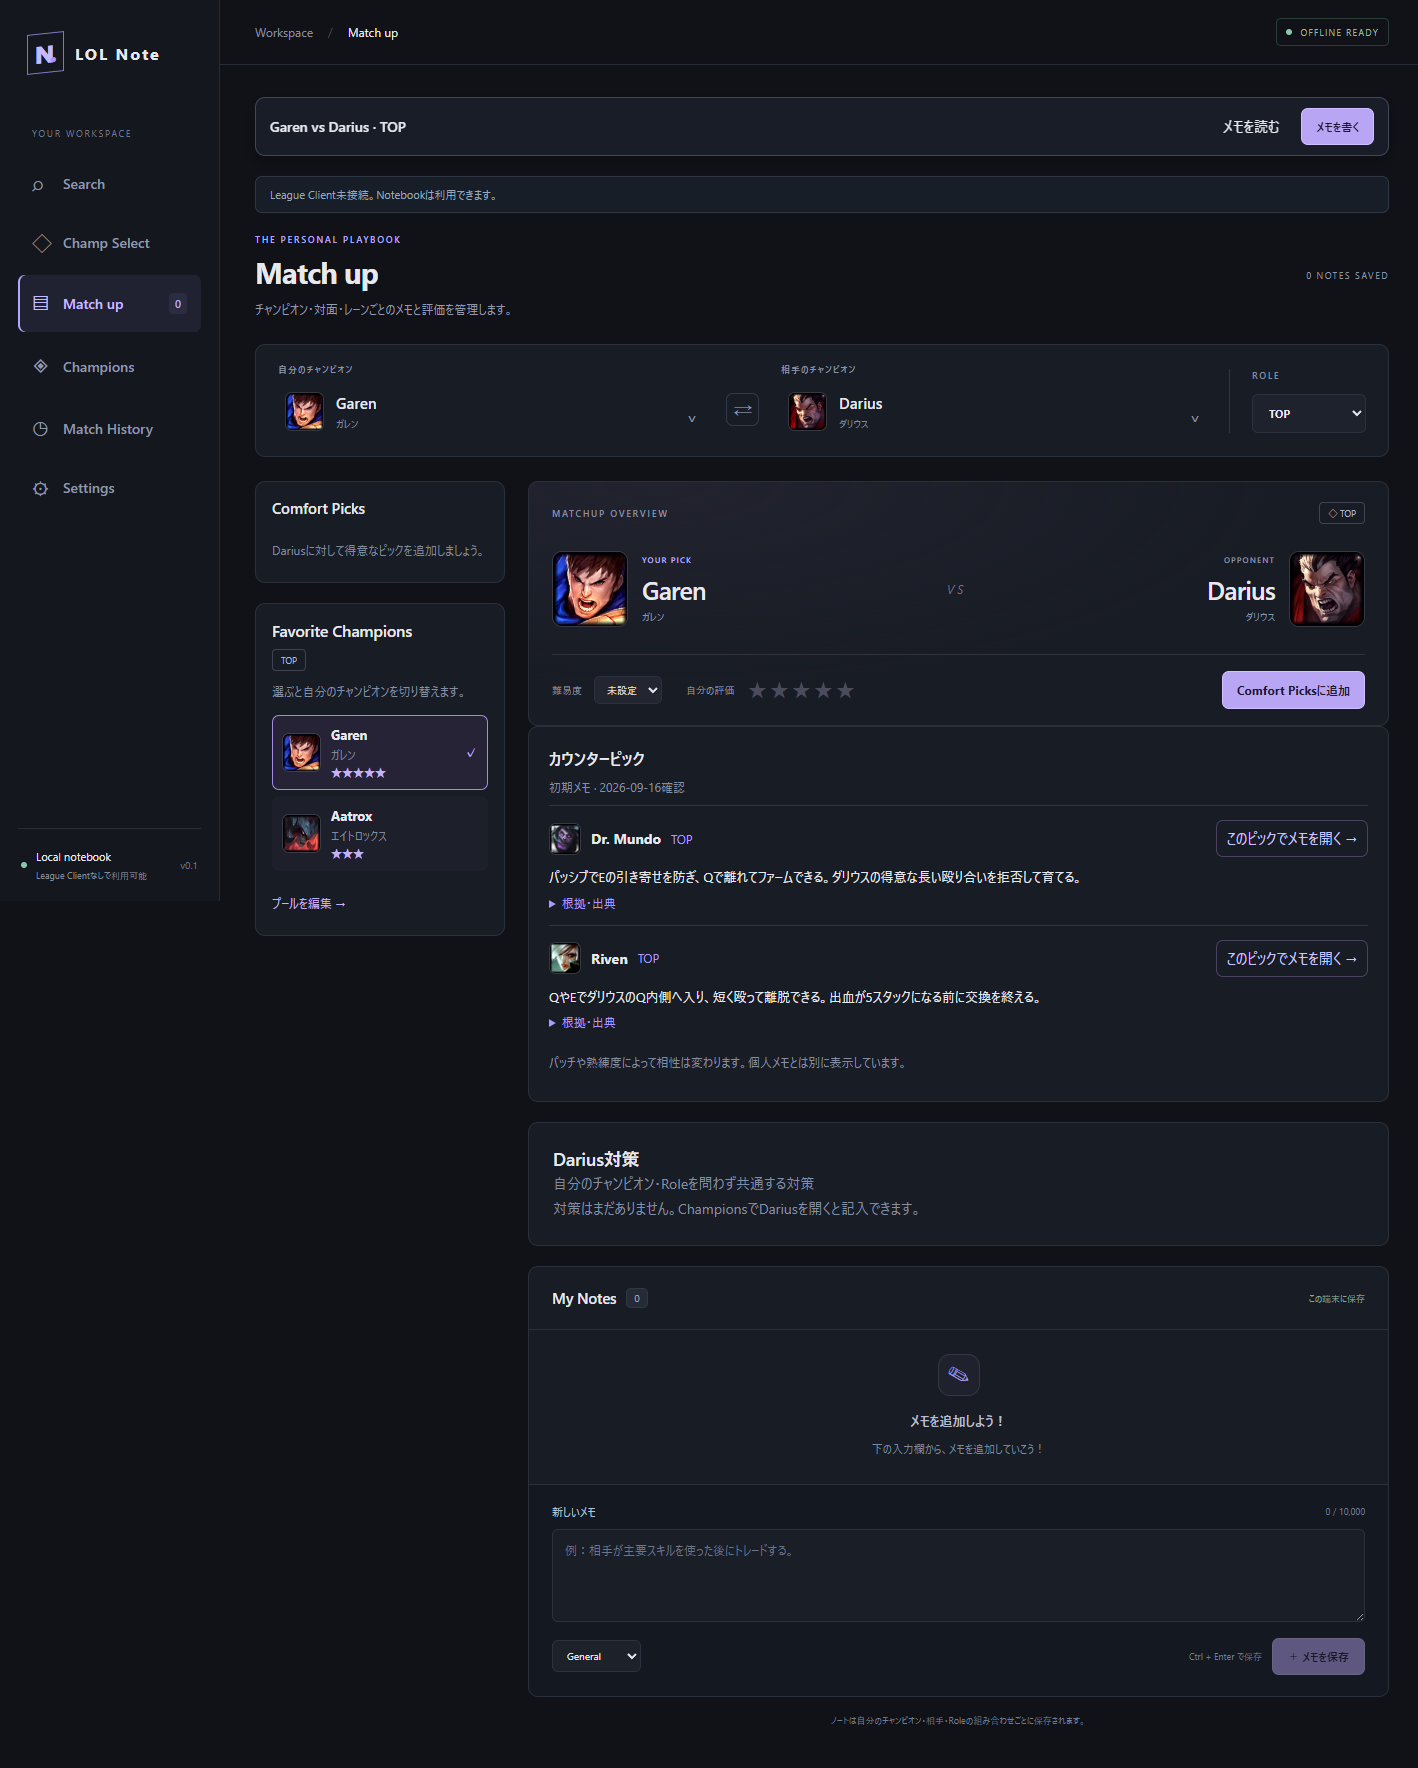
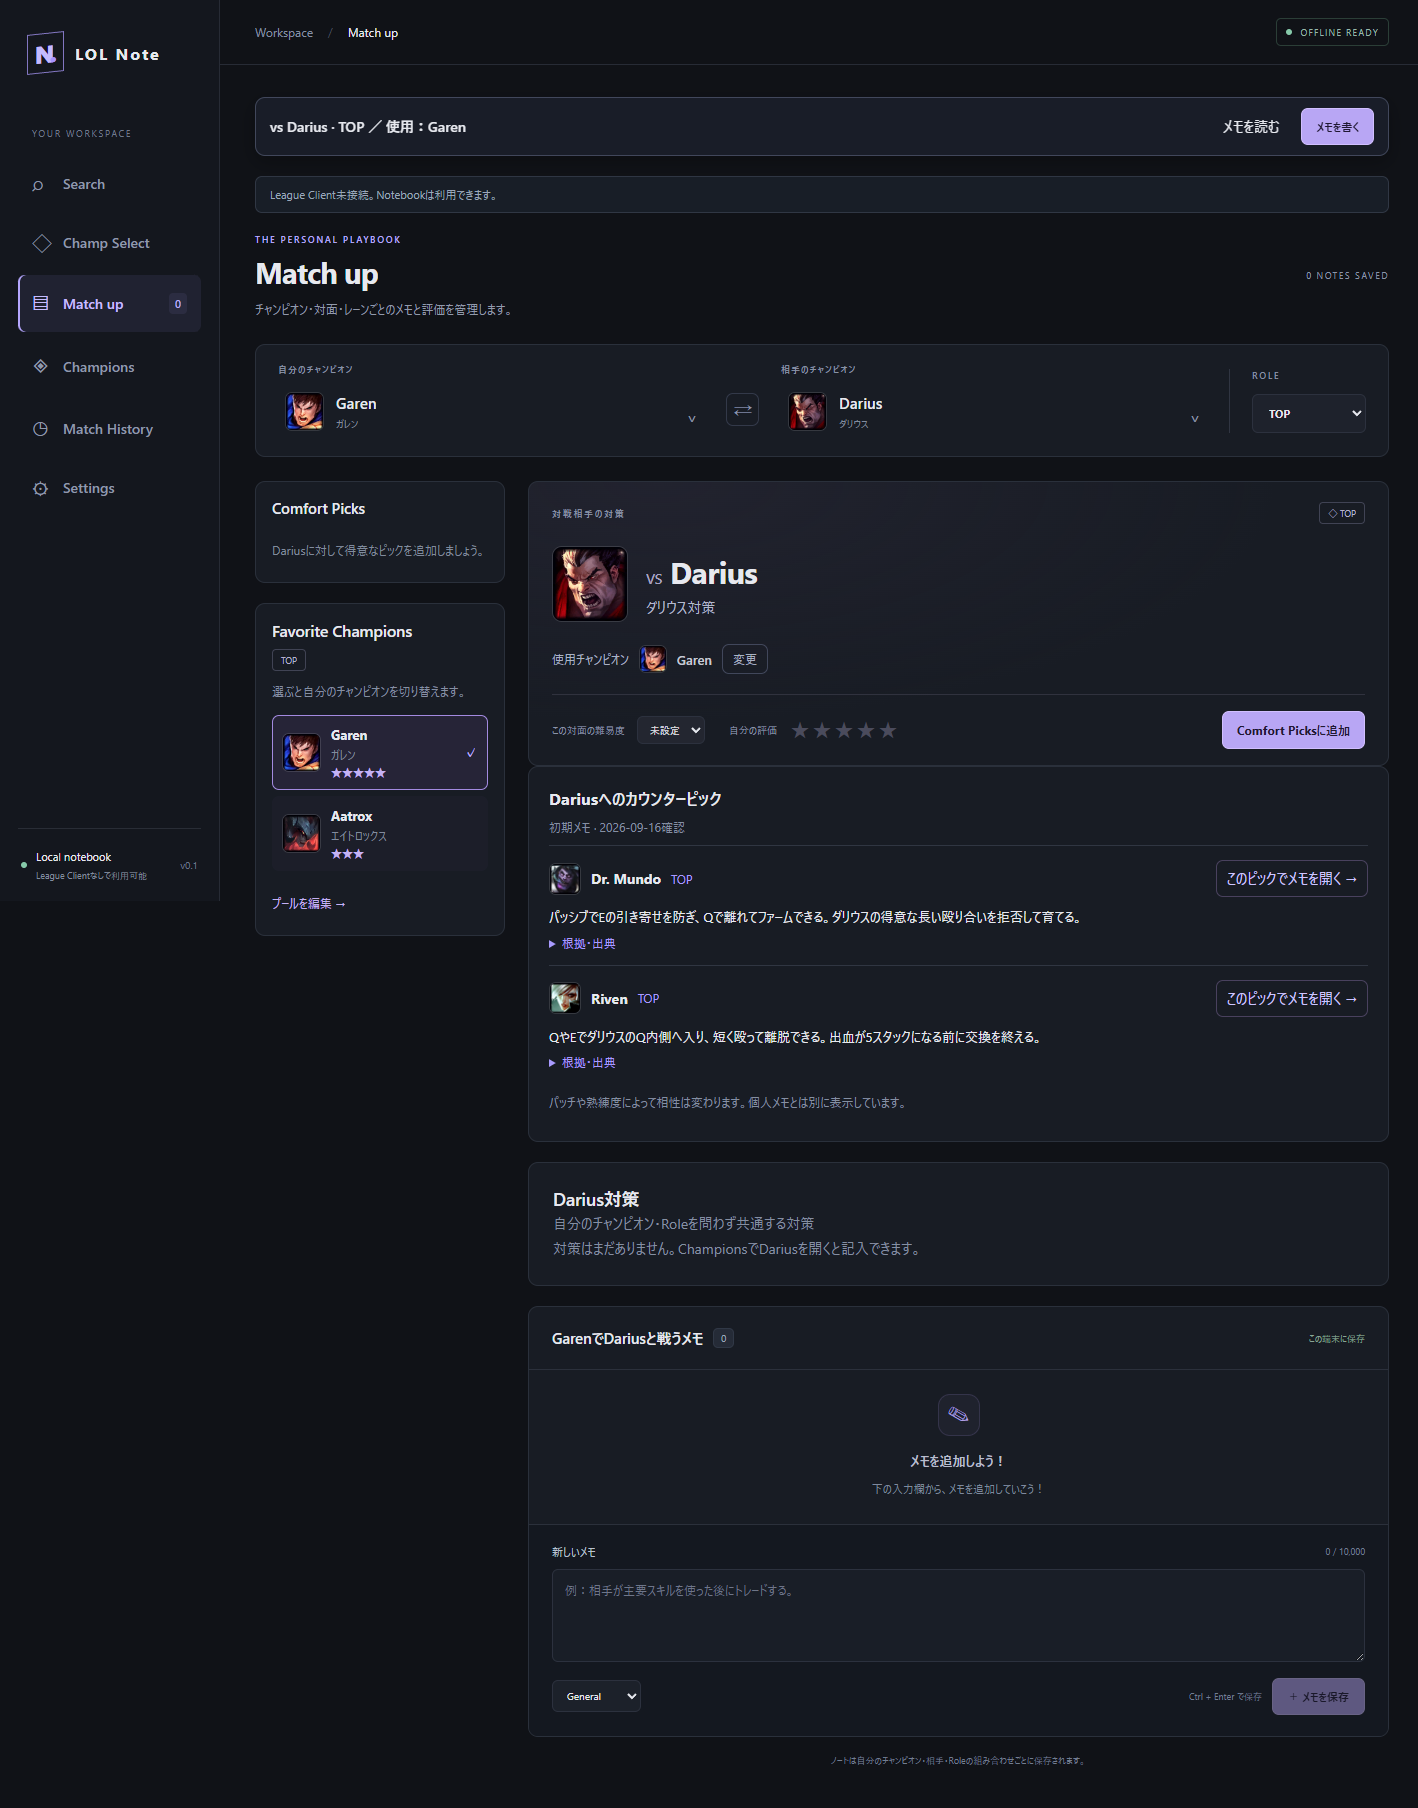
ui: focus matchup overview on the opponent

diff --git a/src/renderer/src/App.tsx b/src/renderer/src/App.tsx
@@ -456,7 +456,11 @@ export default function App() {
     <section className="notes-panel panel" id="personal-notes">
       <div className="section-title">
         <div className="notes-title">
-          <h2>{page === 'champions' ? 'Champion Notes' : 'My Notes'}</h2>
+          <h2>
+            {page === 'champions'
+              ? 'Champion Notes'
+              : `${mine?.name ?? ''}で${enemy?.name ?? ''}と戦うメモ`}
+          </h2>
           <span className="count">{activeNotes?.length ?? 0}</span>
         </div>
         <span className="save-status" role="status">
@@ -707,7 +711,7 @@ export default function App() {
               <span>
                 {page === 'champions'
                   ? selectedChampion?.name
-                  : `${mine?.name ?? ''} vs ${enemy?.name ?? ''} · ${key.role}`}
+                  : `vs ${enemy?.name ?? ''} · ${key.role} ／ 使用：${mine?.name ?? ''}`}
               </span>
               <div>
                 <button
@@ -1132,31 +1136,38 @@ export default function App() {
                   {mine && enemy && (
                     <div className="matchup-hero panel">
                       <div className="hero-top">
-                        <span className="eyebrow">MATCHUP OVERVIEW</span>
+                        <span className="eyebrow">対戦相手の対策</span>
                         <span className="role-badge">◇ {key.role}</span>
                       </div>
-                      <div className="versus">
-                        <div className="fighter">
-                          <Portrait champion={mine} large />
-                          <div>
-                            <span className="eyebrow accent">YOUR PICK</span>
-                            <h2>{mine.name}</h2>
-                            <p>{mine.nameJa}</p>
-                          </div>
+                      <div className="opponent-heading">
+                        <Portrait champion={enemy} large />
+                        <div>
+                          <h2>
+                            <span>vs</span> {enemy.name}
+                          </h2>
+                          <p>{enemy.nameJa}対策</p>
                         </div>
-                        <span className="vs">VS</span>
-                        <div className="fighter enemy">
-                          <div>
-                            <span className="eyebrow">OPPONENT</span>
-                            <h2>{enemy.name}</h2>
-                            <p>{enemy.nameJa}</p>
-                          </div>
-                          <Portrait champion={enemy} large />
-                        </div>
+                      </div>
+                      <div className="own-pick-context">
+                        <span>使用チャンピオン</span>
+                        <Portrait champion={mine} />
+                        <strong>{mine.name}</strong>
+                        <button
+                          disabled={busy}
+                          onClick={() => {
+                            const picker = document.querySelector<HTMLButtonElement>(
+                              '.selection-bar .picker-button',
+                            )
+                            picker?.scrollIntoView({ block: 'center' })
+                            picker?.click()
+                          }}
+                        >
+                          変更
+                        </button>
                       </div>
                       <div className="overview-controls">
                         <div>
-                          <label htmlFor="difficulty">難易度</label>
+                          <label htmlFor="difficulty">この対面の難易度</label>
                           <select
                             id="difficulty"
                             value={matchup?.difficulty ?? 'Unset'}

diff --git a/src/renderer/src/styles.css b/src/renderer/src/styles.css
@@ -536,45 +536,47 @@ h1 {
   border-radius: 4px;
   color: #b6b2cb;
 }
-.versus {
+.opponent-heading {
   display: flex;
   align-items: center;
-  justify-content: space-between;
-  gap: 13px;
-  margin: 27px 0;
+  gap: 18px;
+  margin: 22px 0;
 }
-.fighter {
-  display: flex;
-  align-items: center;
-  gap: 14px;
-  min-width: 0;
-}
-.fighter h2 {
-  font-size: 25px;
-  font-weight: 600;
-  letter-spacing: -0.7px;
-  margin: 8px 0 4px;
+.opponent-heading h2 {
+  font-size: 30px;
+  letter-spacing: -0.5px;
   overflow-wrap: anywhere;
 }
-.fighter p {
-  font-size: 10px;
-  color: #8993a6;
+.opponent-heading h2 span {
+  font-size: 19px;
+  color: #aaa4c1;
+  font-weight: 400;
 }
-.fighter .eyebrow {
-  font-size: 8px;
-  letter-spacing: 1.1px;
+.opponent-heading p {
+  color: #b2b9cb;
+  margin-top: 6px;
 }
-.fighter.enemy {
-  text-align: right;
-}
-.fighter.enemy .portrait {
-  filter: saturate(0.7);
-}
-.vs {
+.own-pick-context {
+  display: flex;
+  align-items: center;
+  gap: 10px;
+  flex-wrap: wrap;
+  margin-bottom: 20px;
+  color: #aab2c3;
   font-size: 12px;
-  letter-spacing: 3px;
-  color: #6c7183;
-  font-style: italic;
+}
+.own-pick-context .portrait {
+  width: 28px;
+  height: 28px;
+}
+.own-pick-context strong {
+  font-size: 13px;
+  font-weight: 500;
+  color: #c5cad5;
+}
+.own-pick-context button {
+  padding: 6px 10px;
+  border: 1px solid #41475b;
 }
 .overview-controls {
   border-top: 1px solid #30323e;
@@ -943,16 +945,7 @@ h1 {
   .matchup-hero {
     padding: 17px 17px 0;
   }
-  .fighter {
-    gap: 9px;
-  }
-  .fighter h2 {
-    font-size: 21px;
-  }
-  .fighter .large {
-    width: 58px;
-    height: 58px;
-  }
+
   .personal-label {
     display: none;
   }

diff --git a/tests/notebook.e2e.ts b/tests/notebook.e2e.ts
@@ -189,7 +189,7 @@ test('offline Electron notebook: CRUD, isolation, validation and restart persist
     await page.getByLabel('メモのカテゴリー').selectOption('Trading')
     await page.getByRole('button', { name: '＋ メモを保存', exact: true }).click()
     await expect(page.locator('.note-body')).toHaveText('DariusのQを見てから距離を調整する。')
-    await page.getByLabel('難易度', { exact: true }).selectOption('Hard')
+    await page.getByLabel('この対面の難易度', { exact: true }).selectOption('Hard')
     await page.getByRole('button', { name: '評価4', exact: true }).click()
     await expect(page.getByRole('button', { name: '評価4', exact: true })).toHaveAttribute(
       'aria-pressed',
@@ -278,7 +278,7 @@ test('offline Electron notebook: CRUD, isolation, validation and restart persist
     page = await app.firstWindow()
     await page.context().setOffline(true)
     await expect(page.locator('.note-body')).toHaveText('Ghost中は距離を取る。')
-    await expect(page.getByLabel('難易度', { exact: true })).toHaveValue('Hard')
+    await expect(page.getByLabel('この対面の難易度', { exact: true })).toHaveValue('Hard')
     await expect(page.getByRole('button', { name: '評価4', exact: true })).toHaveAttribute(
       'aria-pressed',
       'true',

diff --git a/tests/usability.e2e.ts b/tests/usability.e2e.ts
@@ -12,7 +12,11 @@ test('search, return navigation and counter shortcuts preserve the writing flow'
   const app = await electron.launch({ args: [resolve('.')], env })
   try {
     const page = await app.firstWindow()
-    await page.getByRole('button', { name: '自分のチャンピオンを選択' }).click()
+    await expect(page.locator('.opponent-heading')).toContainText('vs Darius')
+    await page
+      .locator('.own-pick-context')
+      .getByRole('button', { name: '変更', exact: true })
+      .click()
     const search = page.getByLabel('自分のチャンピオンを検索')
     await search.fill('がれん')
     await search.press('Enter')

diff --git a/src/renderer/src/CuratedCounters.tsx b/src/renderer/src/CuratedCounters.tsx
@@ -20,7 +20,7 @@ export default function CuratedCounters({
   )
   return (
     <section className="curated-counters panel" aria-label="初期カウンターメモ">
-      <h3>カウンターピック</h3>
+      <h3>{catalog.champions.find((c) => c.id === championId)?.name}へのカウンターピック</h3>
       <p className="muted">初期メモ · {data.checkedAt}確認</p>
       {entries.length ? (
         entries.map((entry) => (
